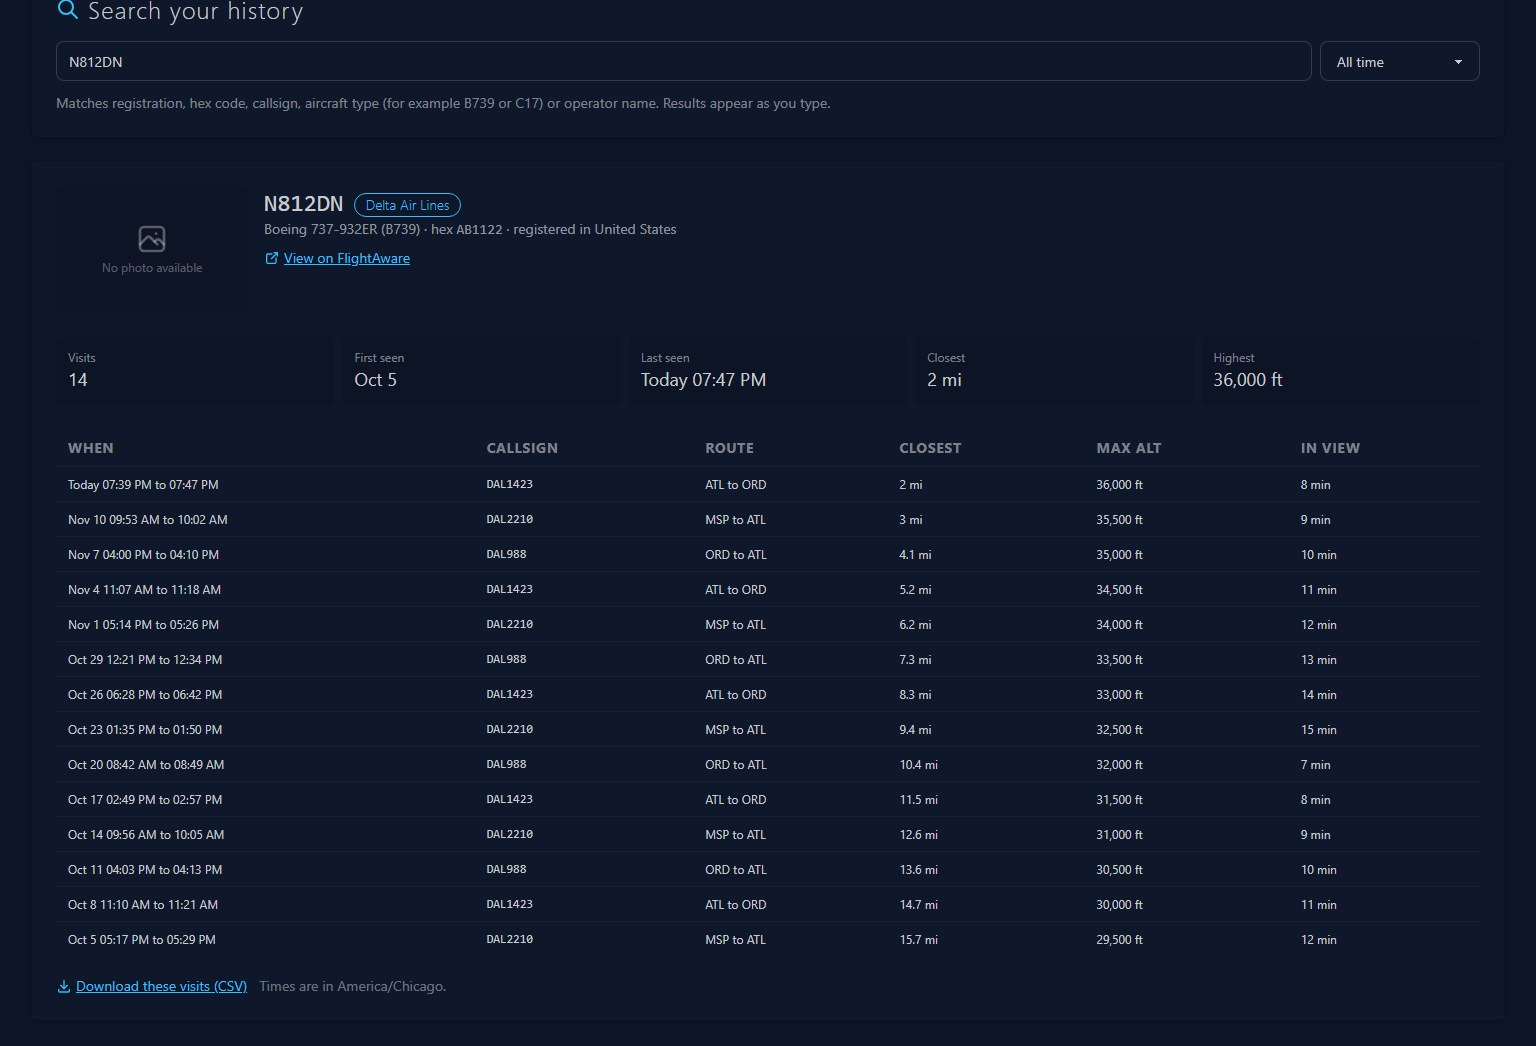
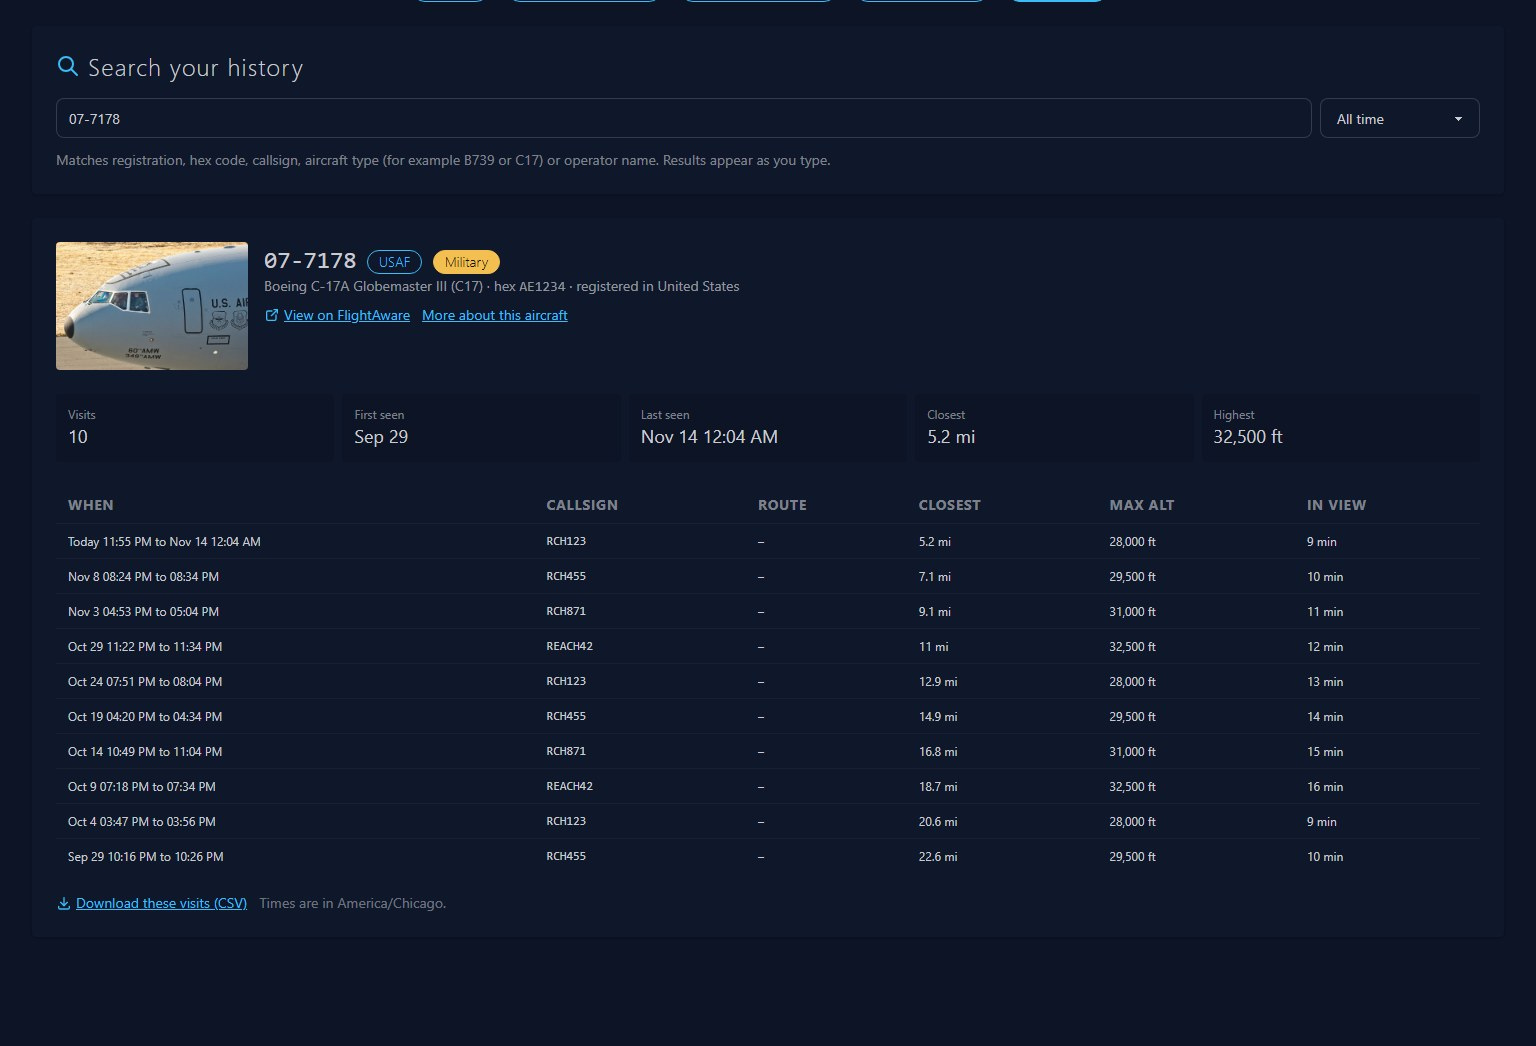
Screenshots: Updates page for v3.0.15-21, aircraft search with a photo

diff --git a/README.md b/README.md
@@ -123,8 +123,9 @@ the selected-aircraft card. *(Sample aircraft, shown over Chicago.)*
 waiting and what's new in the newest release.
 ![Updates page](docs/screenshots/updates.png)
 
-**SkyStats aircraft search**: every visit of an aircraft with its route, closest distance, highest
-altitude and time in view, ready to download as CSV. *(Sample data.)*
+**SkyStats aircraft search**: every visit of an aircraft with its photo, route, closest distance,
+highest altitude and time in view, ready to download as CSV. *(Sample data; photo: U.S. Air Force
+photo by Heide Couch, public domain.)*
 ![SkyStats aircraft search](docs/screenshots/skystats-search.jpg)
 
 **SkyStats reception charts**: the farthest aircraft heard in each direction (a dent shows where the antenna
